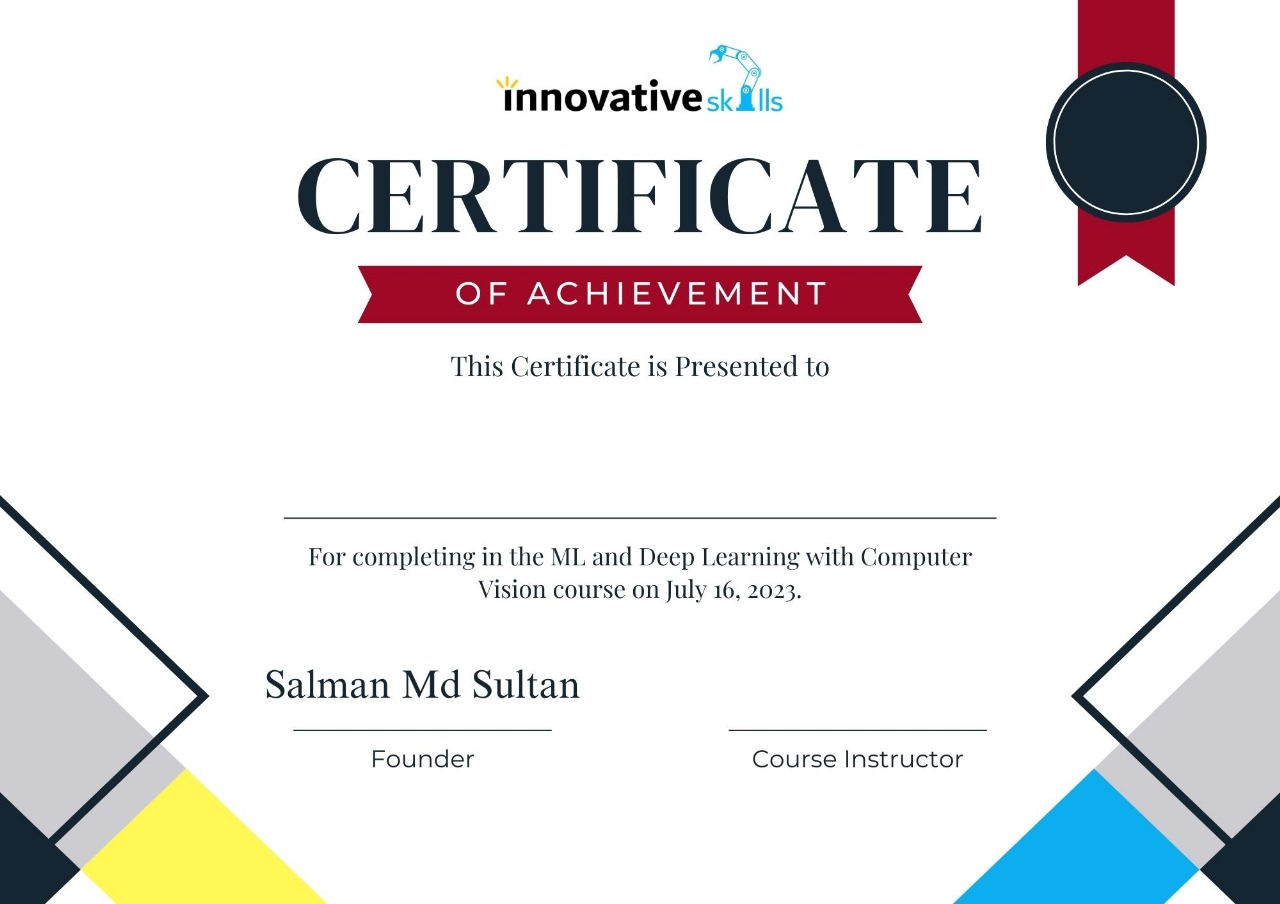
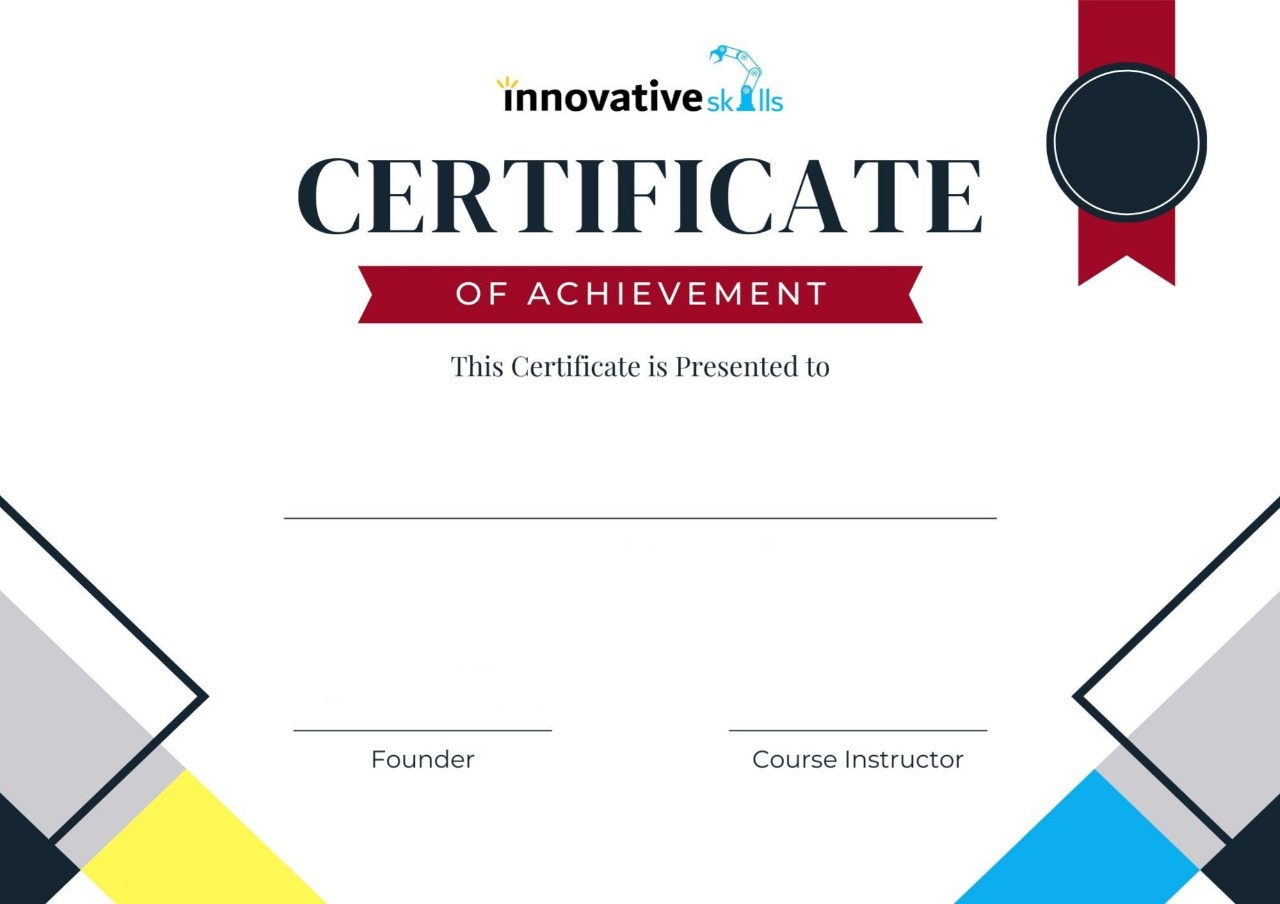
set founder name and fix blank page problem

diff --git a/app/Http/Controllers/PdfController.php b/app/Http/Controllers/PdfController.php
@@ -20,6 +20,7 @@ class PdfController extends Controller
             $color=imagecolorallocate($image,19,21,22);
             $name=$request->input('name');
             $ins_name=$request->input('course');
+            $founder_name=$request->input('founder');
             // Get the image dimensions
             $imageWidth = imagesx($image);
             $imageWidth_2 = imagesx($image)/2;
@@ -32,14 +33,17 @@ class PdfController extends Controller
 
             // Get the text size and bounding box
             $textInfo = imagettfbbox($fontSize, 0, $font, $name);
-            $textInfo_2 = imagettfbbox($fontSize_2, 0, $font_2, $ins_name);
+            $textInfo_course = imagettfbbox($fontSize_2, 0, $font_2, $ins_name);
+            $textInfo_founder = imagettfbbox($fontSize_2, 0, $font_2, $founder_name);
             $textWidth = $textInfo[2] - $textInfo[0];
-            $textWidth_2 = $textInfo_2[2] - $textInfo_2[0];
+            $textWidth_course = $textInfo_course[2] - $textInfo_course[0];
+            $textWidth_founder = $textInfo_founder[2] - $textInfo_founder[0];
             $textHeight = $textInfo[1] - $textInfo[7];
 
             // Calculate the center position
             $centerX = ($imageWidth - $textWidth) / 2;
-            $centerXX = (($imageWidth_3*3) - $textWidth_2)/2 + $imageWidth_2;
+            $centerCourseX = (($imageWidth_3*3) - $textWidth_course)/2 + $imageWidth_2;
+            $centerFounderX = ((($imageWidth_3*2) - $textWidth_founder)/2)+$imageWidth_3*2;
             $centerY = ($imageHeight - $textHeight) / 2 + $fontSize;
            
             
@@ -47,7 +51,8 @@ class PdfController extends Controller
             $file_path=storage_path('app/public/certificate/').$name.".jpg";
 
             imagettftext($image,75,0,$centerX,490,$color,$font,$name);
-            imagettftext($image,30,0,$centerXX,700,$color,$font_2,$ins_name);
+            imagettftext($image,30,0,$centerCourseX,700,$color,$font_2,$ins_name);
+            imagettftext($image,30,0,$centerFounderX,700,$color,$font_2,$founder_name);
             imagejpeg($image,$file_path);
             imagedestroy($image);
             $data=[

diff --git a/resources/views/index.blade.php b/resources/views/index.blade.php
@@ -6,8 +6,11 @@
     <meta http-equiv="X-UA-Compatible" content="ie=edge">
     <title>{{$title}}</title>
 </head>
-<body>
+<body> 
+    {{-- <div style="page-break-before: always;"> --}}
+    <div style="text-align: center">
+        <img src="{{$image}}" alt="Certificate" width="96%">
+    </div>
     
-    <img src="{{$image}}" alt="Certificate" width="100%">
 </body>
 </html>

diff --git a/resources/views/registration.blade.php b/resources/views/registration.blade.php
@@ -14,6 +14,8 @@
             <input type="text" name="name" id ="name">
             <label for="course">Course Instructor</label>
             <input type="text" name="course" id="course">
+            <label for="founder">Founder</label>
+            <input type="text" name="founder" id="founder">
             <input type="submit" name="Download">
         </form>
         
